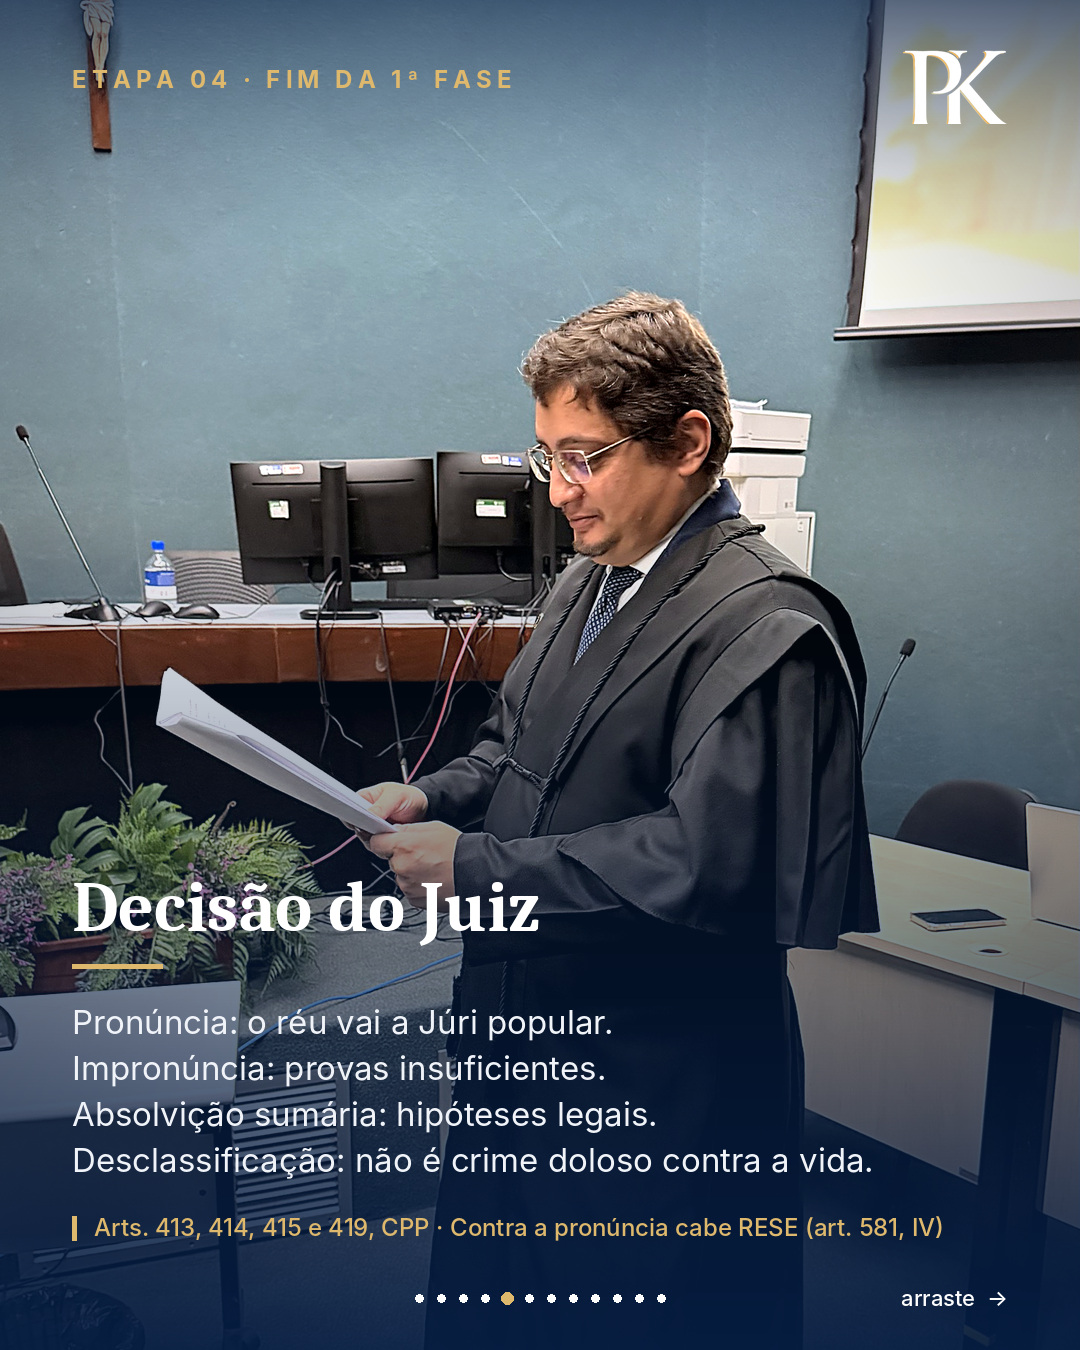
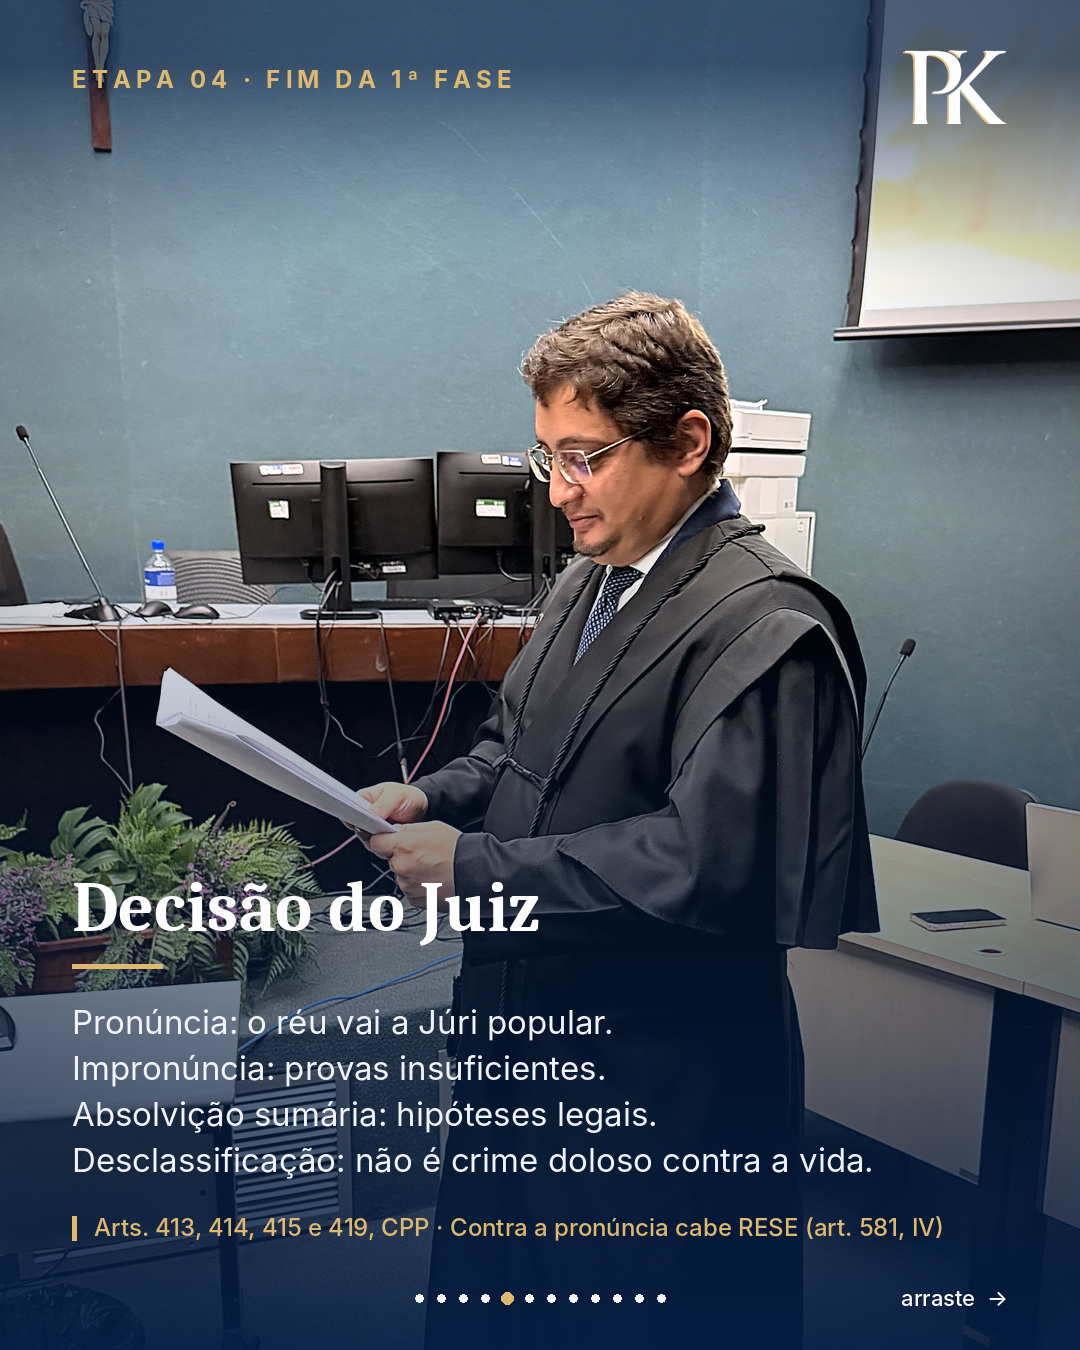
Adiciona versão para Stories (1080x1920) do carrossel do Júri
Script parametrizado pela altura (ALTURA=1350 feed, ALTURA=1920 stories),
com áreas seguras no topo e na base para os Stories e topo mais escuro
para dar contraste às etiquetas de etapa.

Claude-Session: https://claude.ai/code/session_01XGJ3LQrnfkNbkMMiAT3cbh

Changed region(s): [[0.0, 0.0, 1.0, 0.1556]]

diff --git a/carrossel-tribunal-do-juri/gerar_carrossel.py b/carrossel-tribunal-do-juri/gerar_carrossel.py
@@ -4,7 +4,10 @@ import numpy as np, os, sys
 UP = "/root/.claude/uploads/1f883b76-be36-50bf-a705-d2154bf0eb3d/"
 OUT = sys.argv[1]
 os.makedirs(OUT, exist_ok=True)
-W, H = 1080, 1350
+W, H = 1080, int(os.environ.get("ALTURA", 1350))
+STORY = H > 1500
+TOP = 230 if STORY else 64      # área segura do topo nos Stories
+BOT = 230 if STORY else 0       # área segura da base nos Stories
 NAVY = (6, 30, 68)
 GOLD = (222, 184, 108)
 WHITE = (255, 255, 255)
@@ -54,10 +57,11 @@ def gradient(base, start, end_alpha=238, top=True):
     px = np.zeros((H, W, 4), np.uint8)
     px[..., :3] = NAVY
     ys = np.arange(H)
+    start = start + (H - 1350) - BOT
     t = np.clip((ys - start) / (H - start), 0, 1) ** 0.85
     al = (t * end_alpha)
     if top:  # leve escurecimento no topo para tag e logo
-        al = np.maximum(al, np.clip((260 - ys) / 260, 0, 1) ** 1.6 * 150)
+        al = np.maximum(al, np.clip((TOP + 220 - ys) / 220, 0, 1) ** 1.4 * 165)
     px[..., 3] = al[:, None].astype(np.uint8)
     ov = Image.fromarray(px, "RGBA")
     # vinheta suave
@@ -100,7 +104,7 @@ def dots(draw, idx, total):
     for i in range(total):
         c = GOLD if i == idx else (255, 255, 255, 110)
         rr = r if i == idx else 4
-        draw.ellipse((x0 + i * gap - rr, H - 52 - rr, x0 + i * gap + rr, H - 52 + rr), fill=c)
+        draw.ellipse((x0 + i * gap - rr, H - 52 - BOT - rr, x0 + i * gap + rr, H - 52 - BOT + rr), fill=c)
 
 
 M = 72  # margem lateral
@@ -112,9 +116,9 @@ def slide(n, photo, fx, fy, tag, title, body, ref, zoom=1.0, gstart=520):
     img = gradient(img, gstart)
     d = ImageDraw.Draw(img)
     # topo: etapa + monograma
-    spaced(d, (M, 64), tag, F(SANS_B, 24), GOLD, 5)
+    spaced(d, (M, TOP), tag, F(SANS_B, 24), GOLD, 5)
     lg = mono.copy(); lg.thumbnail((200, 74), Image.LANCZOS)
-    img.alpha_composite(lg, (W - M - lg.width, 50))
+    img.alpha_composite(lg, (W - M - lg.width, TOP - 14))
     # bloco inferior (de baixo para cima)
     ft, fb, fr = F(SERIF_B, 70), F(SANS, 33), F(SANS_M, 24)
     maxw = W - 2 * M
@@ -123,7 +127,7 @@ def slide(n, photo, fx, fy, tag, title, body, ref, zoom=1.0, gstart=520):
     rl = wrap(d, ref, fr, maxw - 28) if ref else []
     h_t, h_b, h_r = 78, 46, 34
     total_h = len(tl) * h_t + 30 + 26 + len(bl) * h_b + (30 + len(rl) * h_r if rl else 0)
-    y = H - 100 - total_h
+    y = H - 100 - BOT - total_h
     for l in tl:
         d.text((M, y), l, font=ft, fill=WHITE); y += h_t
     y += 18
@@ -137,7 +141,7 @@ def slide(n, photo, fx, fy, tag, title, body, ref, zoom=1.0, gstart=520):
             d.text((M + 22, y), l, font=fr, fill=GOLD); y += h_r
     dots(d, n - 1, TOTAL)
     if n < TOTAL:
-        d.text((W - M, H - 52), "arraste  →", font=F(SANS_M, 22), fill=(255, 255, 255, 190), anchor="rm")
+        d.text((W - M, H - 52 - BOT), "arraste  →", font=F(SANS_M, 22), fill=(255, 255, 255, 190), anchor="rm")
     img.convert("RGB").save(f"{OUT}/{n:02d}.jpg", quality=94, subsampling=0)
 
 
@@ -146,8 +150,8 @@ def cover_slide():
     img = gradient(img, 430, 245, top=False)
     d = ImageDraw.Draw(img)
     lg = logo_w.copy(); lg.thumbnail((330, 210), Image.LANCZOS)
-    img.alpha_composite(lg, (M, 60))
-    y = 760
+    img.alpha_composite(lg, (M, TOP - 4))
+    y = H - 590 - BOT
     spaced(d, (M, y), "GUIA PRÁTICO  ·  DIREITO PENAL", F(SANS_B, 24), GOLD, 5); y += 56
     for l in ["Tribunal", "do Júri"]:
         d.text((M, y), l, font=F(SERIF_B, 118), fill=WHITE); y += 118
@@ -156,7 +160,7 @@ def cover_slide():
     for l in wrap(d, "Do inquérito policial à sustentação oral no Tribunal de Justiça — passo a passo.", F(SERIF_I, 40), W - 2 * M - 60):
         d.text((M, y), l, font=F(SERIF_I, 40), fill=(240, 243, 248)); y += 50
     dots(d, 0, TOTAL)
-    d.text((W - M, H - 52), "arraste  →", font=F(SANS_M, 22), fill=(255, 255, 255, 190), anchor="rm")
+    d.text((W - M, H - 52 - BOT), "arraste  →", font=F(SANS_M, 22), fill=(255, 255, 255, 190), anchor="rm")
     img.convert("RGB").save(f"{OUT}/01.jpg", quality=94, subsampling=0)
 
 
@@ -164,7 +168,7 @@ def final_slide():
     img = cover(enhance(Image.open(UP + "6be1c5b7-image.jpg")), 0.5, 0.38)
     img = gradient(img, 380, 250, top=False)
     d = ImageDraw.Draw(img)
-    y = 700
+    y = H - 650 - BOT
     for l in wrap(d, "Cada fase é uma oportunidade de defesa.", F(SERIF_B, 66), W - 2 * M):
         d.text((W / 2, y), l, font=F(SERIF_B, 66), fill=WHITE, anchor="ma"); y += 76
     y += 14
